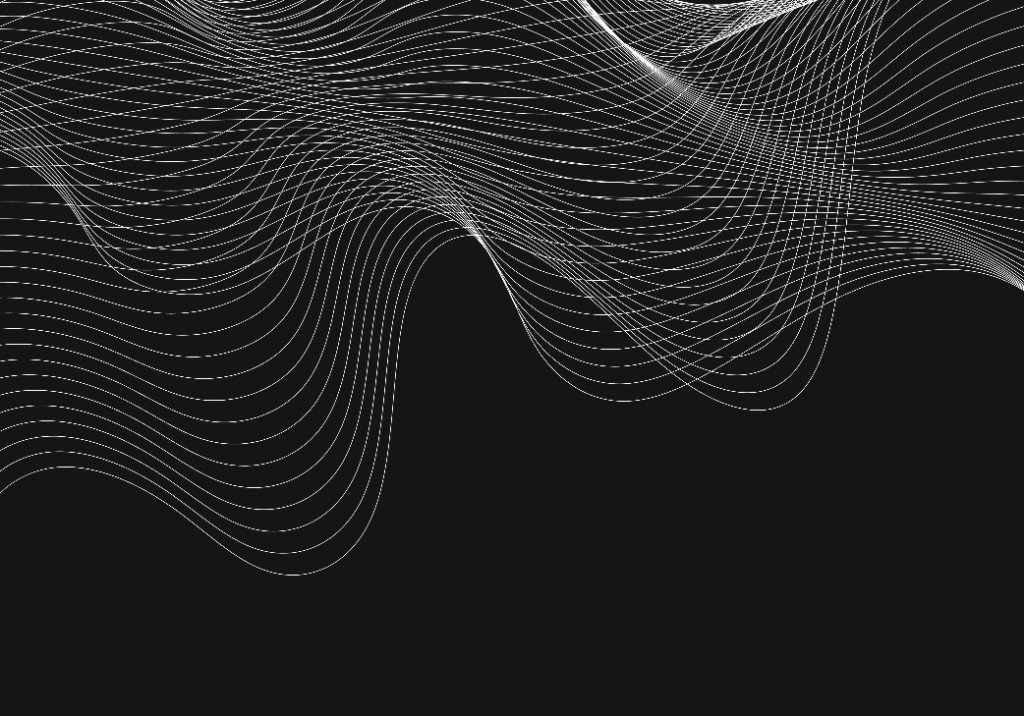
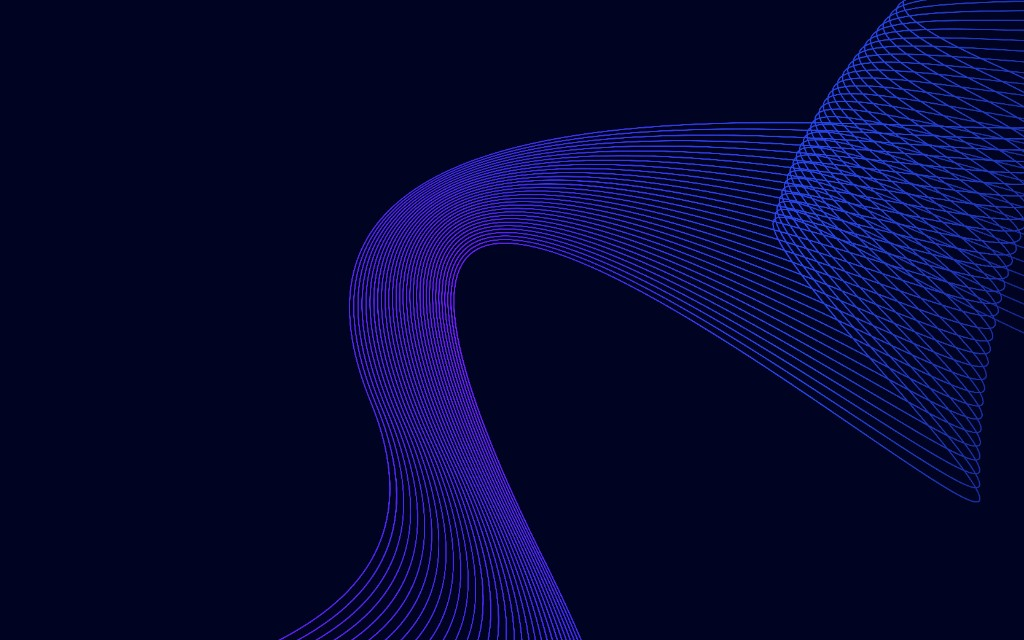
Mor-mavi dalga arka planını her iki temaya uyarla
Orijinal kalite korundu, koyu tema lacivert zemin, açık tema invert.

diff --git a/src/index.css b/src/index.css
@@ -2,7 +2,7 @@
 [data-theme="dark"] {
   color-scheme: dark;
 
-  --color-bg: #09090b;
+  --color-bg: #050821;
   --color-bg-secondary: rgba(15, 15, 19, 0.82);
   --color-bg-elevated: rgba(22, 22, 28, 0.88);
   --color-card-bg: rgba(18, 18, 22, 0.85);
@@ -16,12 +16,12 @@
   --color-accent-hover: #2563eb;
   --color-baby-blue: #89cff0;
   --color-label: #89cff0;
-  --color-navbar-bg: rgba(9, 9, 11, 0.75);
+  --color-navbar-bg: rgba(5, 8, 33, 0.78);
   --color-logo-mark-bg: rgba(255, 255, 255, 0.05);
   --color-overlay: rgba(0, 0, 0, 0.72);
   --color-bg-pattern-opacity: 1;
   --color-bg-pattern-size: min(100%, 1024px) auto;
-  --color-bg-pattern-position: center top;
+  --color-bg-pattern-position: center bottom;
   --color-bg-glow: none;
   --shadow-card: 0 0 0 1px rgba(255, 255, 255, 0.04);
   --shadow-card-hover: 0 8px 24px rgba(0, 0, 0, 0.35);
@@ -52,7 +52,7 @@
   --color-overlay: rgba(15, 23, 42, 0.45);
   --color-bg-pattern-opacity: 1;
   --color-bg-pattern-size: min(100%, 1024px) auto;
-  --color-bg-pattern-position: center top;
+  --color-bg-pattern-position: center bottom;
   --color-bg-glow: none;
   --shadow-card: 0 1px 2px rgba(15, 23, 42, 0.05), 0 4px 16px rgba(15, 23, 42, 0.04);
   --shadow-card-hover: 0 8px 28px rgba(15, 23, 42, 0.1);
@@ -118,7 +118,7 @@ body::after {
 }
 
 [data-theme="light"] body::after {
-  filter: invert(1);
+  filter: invert(1) hue-rotate(180deg);
 }
 
 #root {

diff --git a/src/context/ThemeContext.tsx b/src/context/ThemeContext.tsx
@@ -29,7 +29,7 @@ export function ThemeProvider({ children }: { children: ReactNode }) {
     localStorage.setItem("theme", theme);
     document
       .querySelector('meta[name="theme-color"]')
-      ?.setAttribute("content", theme === "dark" ? "#09090b" : "#f1f5f9");
+      ?.setAttribute("content", theme === "dark" ? "#050821" : "#f1f5f9");
   }, [theme]);
 
   return (
